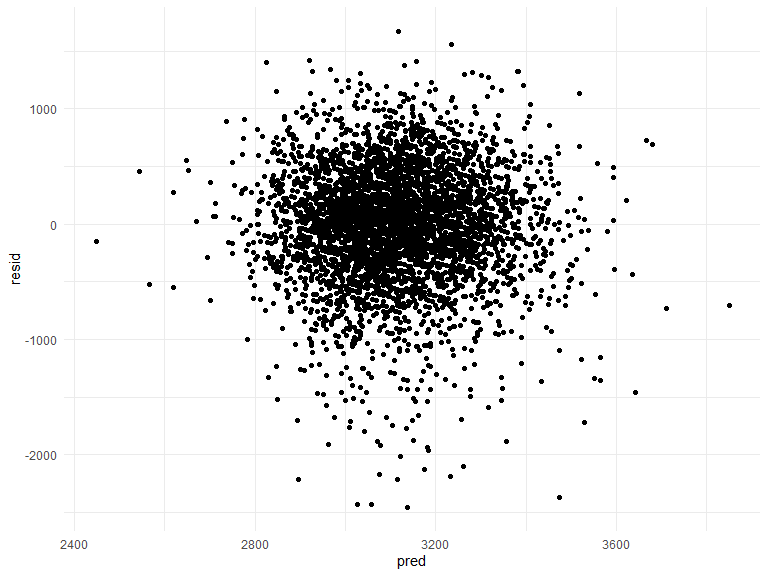
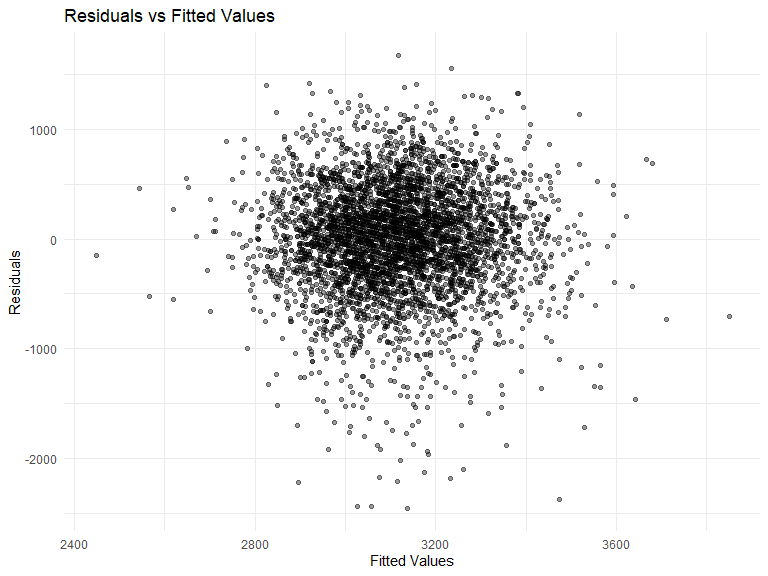
Finished, just need to double check descriptions

diff --git a/p8105_hw6_jt3175.md b/p8105_hw6_jt3175.md
@@ -102,32 +102,30 @@ birthweight =
 # residuals are clustered, but there is no clear pattern... seems ok enough to proceed
 
 ggplot(birthweight, aes(x = pred, y = resid))+
-  geom_point()
+  geom_point(alpha = .4)+
+  labs(
+    title = "Residuals vs Fitted Values",
+    x = "Fitted Values",
+    y = "Residuals"
+  )
 ```
 
 <img src="p8105_hw6_jt3175_files/figure-gfm/unnamed-chunk-2-1.png" width="90%" />
 
 We compare the above model to two others using cross validation:
 
-  - One using length at birth and gestational age as predictors (main
-    effects only)
+  - One using length at birth and gestational age as predictors
   - One using head circumference, length, sex, and all interactions
-    (including the three-way interaction) between these
+    between these
 
-<!-- end list -->
+To do this we create 100 testing and training datasets, where each one
+is split 80% training and 20% testing. We then fit each model using the
+training dataset, and evaluate it using the prediction error from the
+testing dataset. We do this for each of the 100 datasets, and then
+create violin plots comparing the cross-validated prediciton error.
 
-``` r
-# This is just for me to think about it 
-
-# simple_model_given = lm(bwt ~ blength + gaweeks, data = birthweight)
-# summary(simple_model_given)
-#   
-# complex_model_given = lm(bwt ~ babysex * bhead * blength, data = birthweight)
-# summary(complex_model_given)
-```
-
-Make this comparison in terms of the cross-validated prediction error;
-use crossv\_mc and functions in purrr as appropriate.
+We find that the more complex model has the lowest distribution of
+prediction errors.
 
 ``` r
 # need to create testing and training datasets to use on all 3 models.
@@ -161,49 +159,20 @@ cv_df %>%
     values_to = "rmse",
     names_prefix = "rmse_") %>% 
   mutate(model = fct_inorder(model)) %>% 
-  ggplot(aes(x = model, y = rmse)) + geom_violin()
+  ggplot(aes(x = model, y = rmse)) + geom_violin() +
+  labs(title = "Cross-Validated Prediction Error for Three Models",
+       x = "Model",
+       y = "RMSE")
 ```
 
-<img src="p8105_hw6_jt3175_files/figure-gfm/unnamed-chunk-5-1.png" width="90%" />
-
-<http://web.b.ebscohost.com/ehost/pdfviewer/pdfviewer?vid=1&sid=d6056f5b-5ea8-4211-8071-e675375944e1%40pdc-v-sessmgr04>
+<img src="p8105_hw6_jt3175_files/figure-gfm/unnamed-chunk-4-1.png" width="90%" />
 
 ## Problem 2
 
-``` r
-weather_df = 
-  rnoaa::meteo_pull_monitors(
-    c("USW00094728"),
-    var = c("PRCP", "TMIN", "TMAX"), 
-    date_min = "2017-01-01",
-    date_max = "2017-12-31") %>%
-  mutate(
-    name = recode(id, USW00094728 = "CentralPark_NY"),
-    tmin = tmin / 10,
-    tmax = tmax / 10) %>%
-  select(name, id, everything())
-```
-
-    ## Registered S3 method overwritten by 'crul':
-    ##   method                 from
-    ##   as.character.form_file httr
-
-    ## Registered S3 method overwritten by 'hoardr':
-    ##   method           from
-    ##   print.cache_info httr
-
-    ## file path:          C:\Users\jbenn\AppData\Local\rnoaa\rnoaa\Cache/ghcnd/USW00094728.dly
-
-    ## file last updated:  2019-09-26 10:36:48
-
-    ## file min/max dates: 1869-01-01 / 2019-09-30
-
-We’ll focus on a simple linear regression with tmax as the response and
-tmin as the predictor.
-
-We will use 5000 bootstrap samples and, for each bootstrap sample,
-produce estimates of ![\\hat{r}^2\\ \\text{and}\\ log(\\hat{{\\beta}\_0}
-\*
+We focus on a simple linear regression with tmax as the response and
+tmin as the predictor. We will use 5000 bootstrap samples and, for each
+bootstrap sample, produce estimates of ![\\hat{r}^2\\ \\text{and}\\
+log(\\hat{{\\beta}\_0} \*
 \\hat{{\\beta}\_1})](https://latex.codecogs.com/png.latex?%5Chat%7Br%7D%5E2%5C%20%5Ctext%7Band%7D%5C%20log%28%5Chat%7B%7B%5Cbeta%7D_0%7D%20%2A%20%5Chat%7B%7B%5Cbeta%7D_1%7D%29
 "\\hat{r}^2\\ \\text{and}\\ log(\\hat{{\\beta}_0} * \\hat{{\\beta}_1})").
 
@@ -221,7 +190,7 @@ output =
     results_ln = map(models, broom::tidy),
     results_rsq = map(models, broom::glance)
     ) %>% 
-  select(-strap, -models) %>% 
+  select(-strap, -models) %>%
   unnest(results_ln, results_rsq) %>% 
   select(.id, term, estimate, adj.r.squared) %>% 
   pivot_wider(
@@ -235,28 +204,69 @@ output =
   select(adj_r_squared, ln_est)
 ```
 
-Plot the distribution of your estimates, and describe these in words.
+We plot the distribution of ![\\hat{r}^2\\ \\text{and}\\
+log(\\hat{{\\beta}\_0} \*
+\\hat{{\\beta}\_1})](https://latex.codecogs.com/png.latex?%5Chat%7Br%7D%5E2%5C%20%5Ctext%7Band%7D%5C%20log%28%5Chat%7B%7B%5Cbeta%7D_0%7D%20%2A%20%5Chat%7B%7B%5Cbeta%7D_1%7D%29
+"\\hat{r}^2\\ \\text{and}\\ log(\\hat{{\\beta}_0} * \\hat{{\\beta}_1})"),
+shown below. When using a large number of bootstrap samples, such as
+5000, the distrubutions of our estimates are approximately normal. We
+see that
+![\\hat{r}^2](https://latex.codecogs.com/png.latex?%5Chat%7Br%7D%5E2
+"\\hat{r}^2") is centered at about 0.91, and ![log(\\hat{{\\beta}\_0} \*
+\\hat{{\\beta}\_1})](https://latex.codecogs.com/png.latex?log%28%5Chat%7B%7B%5Cbeta%7D_0%7D%20%2A%20%5Chat%7B%7B%5Cbeta%7D_1%7D%29
+"log(\\hat{{\\beta}_0} * \\hat{{\\beta}_1})") is centered at about 2.02.
 
 ``` r
-ggplot(output, aes(x = adj_r_squared))+
-  geom_histogram()
+ggplot(output, aes(x = adj_r_squared)) +
+  geom_histogram() +
+  labs(title = "Distribution of Adjusted R Squared",
+       x = "Adjusted R Squared",
+       y = "Count")
 ```
 
     ## `stat_bin()` using `bins = 30`. Pick better value with `binwidth`.
 
-<img src="p8105_hw6_jt3175_files/figure-gfm/unnamed-chunk-8-1.png" width="90%" />
+<img src="p8105_hw6_jt3175_files/figure-gfm/unnamed-chunk-7-1.png" width="90%" />
 
 ``` r
-ggplot(output, aes(x = ln_est))+
-  geom_histogram()
+ggplot(output, aes(x = adj_r_squared)) +
+  geom_density() +
+  labs(title = "Distribution of Adjusted R Squared",
+       x = "Adjusted R Squared",
+       y = "Density")
+```
+
+<img src="p8105_hw6_jt3175_files/figure-gfm/unnamed-chunk-7-2.png" width="90%" />
+
+``` r
+ggplot(output, aes(x = ln_est)) +
+  geom_histogram() +
+  labs(title = "Distribution of Log of Beta 1 * Beta 0",
+       x = "Log of Beta 1 * Beta 0",
+       y = "Count")
 ```
 
     ## `stat_bin()` using `bins = 30`. Pick better value with `binwidth`.
 
-<img src="p8105_hw6_jt3175_files/figure-gfm/unnamed-chunk-8-2.png" width="90%" />
+<img src="p8105_hw6_jt3175_files/figure-gfm/unnamed-chunk-7-3.png" width="90%" />
 
-Using the 5000 bootstrap estimates, identify the 2.5% and 97.5%
-quantiles to provide a 95% confidence interval
+``` r
+ggplot(output, aes(x = ln_est)) +
+  geom_density() +
+  labs(title = "Distribution of Log of Beta 1 * Beta 0",
+       x = "Log of Beta 1 * Beta 0",
+       y = "Density")
+```
+
+<img src="p8105_hw6_jt3175_files/figure-gfm/unnamed-chunk-7-4.png" width="90%" />
+
+Using the 5000 bootstrap estimates, we identify the 2.5% and 97.5%
+quantiles to provide a 95% confidence interval on ![\\hat{r}^2\\
+\\text{and}\\ log(\\hat{{\\beta}\_0} \*
+\\hat{{\\beta}\_1})](https://latex.codecogs.com/png.latex?%5Chat%7Br%7D%5E2%5C%20%5Ctext%7Band%7D%5C%20log%28%5Chat%7B%7B%5Cbeta%7D_0%7D%20%2A%20%5Chat%7B%7B%5Cbeta%7D_1%7D%29
+"\\hat{r}^2\\ \\text{and}\\ log(\\hat{{\\beta}_0} * \\hat{{\\beta}_1})").
+The below table gives the 95% confidence intervals for each respective
+estimate.
 
 ``` r
 conf_int = output %>% 
@@ -281,5 +291,5 @@ conf_int %>% knitr::kable()
 
 | Estimate      |     Lower |     Upper |
 | :------------ | --------: | --------: |
-| R Hat Squared | 0.8943506 | 0.9266543 |
-| Log Beta Hat  | 1.9644048 | 2.0583372 |
+| R Hat Squared | 0.8931419 | 0.9272826 |
+| Log Beta Hat  | 1.9652164 | 2.0588633 |
